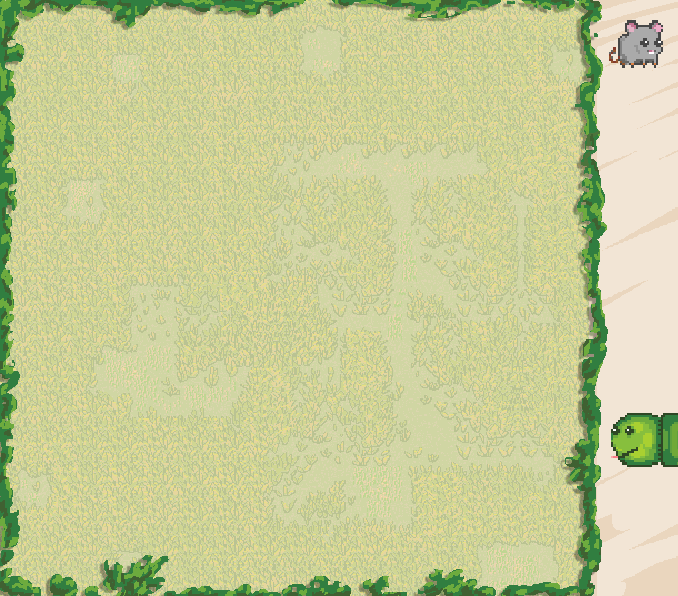
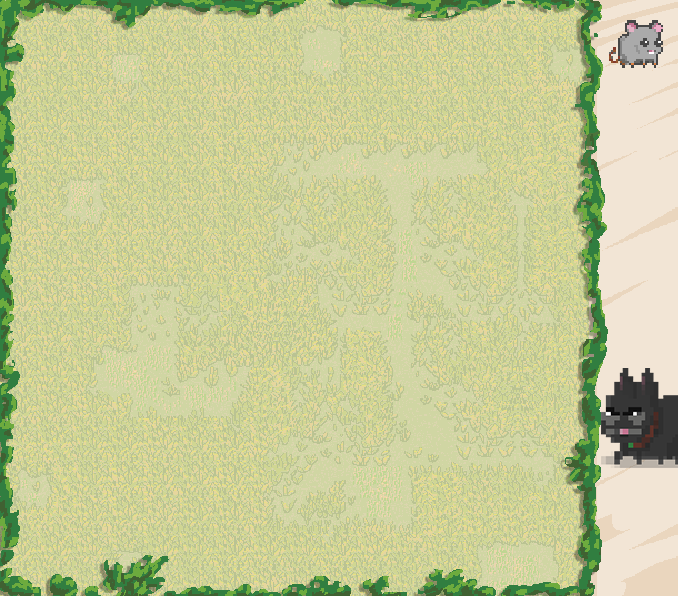
Cat have bigger carsh

Changed region(s): [[0.8673, 0.604, 1.0, 0.7852]]

diff --git a/src/org/academiadecodigo/bootcamp/newmousesnake/Snake.java b/src/org/academiadecodigo/bootcamp/newmousesnake/Snake.java
@@ -123,8 +123,8 @@ public class Snake {
                     break;
                 }
 
-                if (position.getRow() < 1) {
-                    this.position.setPos(position.getCol(), 23);
+                if (position.getRow() < 0) {
+                    this.position.setPos(position.getCol(), 22);
 
                     picLeft.translate(0, SimplegfxGrid.CELLSIZE * 23);
                     picRight.translate(0, SimplegfxGrid.CELLSIZE * 23);
@@ -154,13 +154,13 @@ public class Snake {
                     break;
                 }
 
-                if (position.getRow() > 22) {
+                if (position.getRow() > 21) {
                     this.position.setPos(position.getCol(), 0);
 
-                    picLeft.translate(0, -SimplegfxGrid.CELLSIZE * 23);
-                    picRight.translate(0, -SimplegfxGrid.CELLSIZE * 23);
-                    picUp.translate(0, -SimplegfxGrid.CELLSIZE * 23);
-                    picDown.translate(0, -SimplegfxGrid.CELLSIZE * 23);
+                    picLeft.translate(0, -SimplegfxGrid.CELLSIZE * 22);
+                    picRight.translate(0, -SimplegfxGrid.CELLSIZE * 22);
+                    picUp.translate(0, -SimplegfxGrid.CELLSIZE * 22);
+                    picDown.translate(0, -SimplegfxGrid.CELLSIZE * 22);
                 }
 
                 picLeft.translate(0, +SimplegfxGrid.CELLSIZE);
@@ -184,13 +184,13 @@ public class Snake {
                     break;
                 }
 
-                if (position.getCol() > 22) {
+                if (position.getCol() > 21) {
                     this.position.setPos(0, position.getRow());
 
-                    picLeft.translate(-SimplegfxGrid.CELLSIZE * 23, 0);
-                    picRight.translate(-SimplegfxGrid.CELLSIZE * 23, 0);
-                    picUp.translate(-SimplegfxGrid.CELLSIZE * 23, 0);
-                    picDown.translate(-SimplegfxGrid.CELLSIZE * 23, 0);
+                    picLeft.translate(-SimplegfxGrid.CELLSIZE * 22, 0);
+                    picRight.translate(-SimplegfxGrid.CELLSIZE * 22, 0);
+                    picUp.translate(-SimplegfxGrid.CELLSIZE * 22, 0);
+                    picDown.translate(-SimplegfxGrid.CELLSIZE * 22, 0);
                 }
 
                 picLeft.translate(SimplegfxGrid.CELLSIZE, 0);

diff --git a/src/org/academiadecodigo/bootcamp/newmousesnake/Game.java b/src/org/academiadecodigo/bootcamp/newmousesnake/Game.java
@@ -92,9 +92,9 @@ public class Game {
         int mousePosCol = mouse.getPosition().getCol();
         int mousePosRow = mouse.getPosition().getRow();
 
-        if (snakePosCol == mousePosCol && snakePosRow == mousePosRow ||
-                snakePosCol == mousePosCol + 1 && snakePosRow == mousePosRow ||
-                snakePosCol == mousePosCol && snakePosRow == mousePosRow + 1) {
+        if (snakePosCol+1 == mousePosCol && snakePosRow+1 == mousePosRow ||
+                snakePosCol+1 == mousePosCol + 1 && snakePosRow+1 == mousePosRow ||
+                snakePosCol+1 == mousePosCol && snakePosRow+1 == mousePosRow + 1) {
 
             try {
                 Thread.sleep(2000);
@@ -130,7 +130,9 @@ public class Game {
             // check collision to food while its not poop
             if (snake.getPosition().getCol() == (food.getPosition().getCol())
                     && snake.getPosition().getRow() == (food.getPosition().getRow())
-                    && !food.isPooped()) {
+                    && !food.isPooped() || snake.getPosition().getCol()+1 == (food.getPosition().getCol())
+                    && snake.getPosition().getRow()+1 == (food.getPosition().getRow())
+                    && !food.isPooped() ) {
                 food.snakeEat();
                 //food = new Food(grid.makeGridPosition());
                 foods.add(new Food(grid.makeGridPosition()));
@@ -142,7 +144,9 @@ public class Game {
         for (Food food: foods) {
             if (snake.getPosition().getCol() == (food.getPosition().getCol())
                     && snake.getPosition().getRow() == (food.getPosition().getRow())
-                    && food.isPooped()) {
+                    && food.isPooped() || snake.getPosition().getCol()+1 == (food.getPosition().getCol())
+                    && snake.getPosition().getRow() +1== (food.getPosition().getRow())
+                    && food.isPooped() ) {
 
                 food.snakeEatPoop();
 
